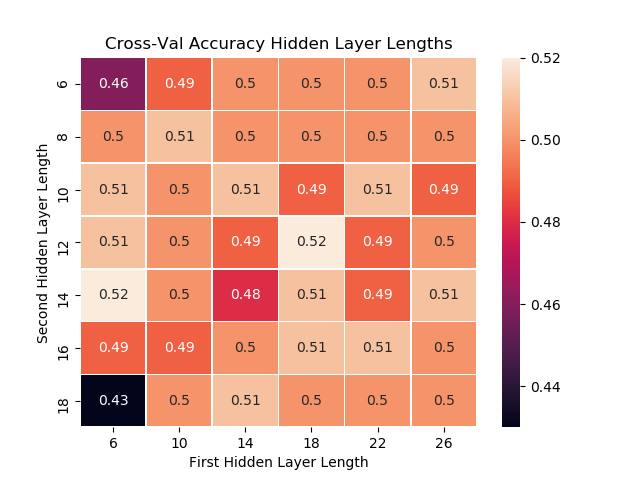
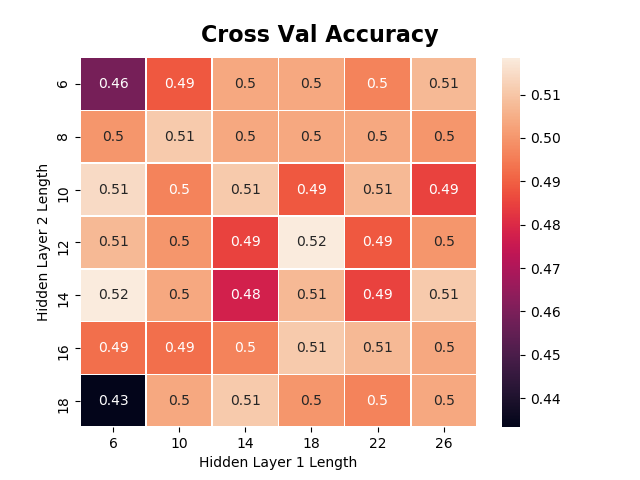
MLP Testing Figure Code Update

diff --git a/ml_model_build_deep_learning/MLP_sklearn.py b/ml_model_build_deep_learning/MLP_sklearn.py
@@ -19,7 +19,9 @@ sys.path.append(dirname(realpath(__file__)) + sep + pardir + sep)
 from ml_functions.data_processing import scale_df
 import pickle
 import numpy as np
+import pandas as pd
 import matplotlib.pyplot as plt
+import seaborn as sns
 from sklearn.neural_network import MLPClassifier
 from sklearn.model_selection import train_test_split, GridSearchCV
 from sklearn.model_selection import cross_val_score
@@ -59,7 +61,7 @@ print('\nMULTILAYER PERCEPTRON\n')
 x_train, x_test, y_train, y_test = train_test_split(x_10, y_10, test_size=0.2)
 
 #instantiate the MLP classifier, and fit to the data
-clf = MLPClassifier(hidden_layer_sizes=(18, 12), activation='logistic', random_state=0, max_iter=1000)
+clf = MLPClassifier(hidden_layer_sizes=(18, 12), activation='logistic', random_state=0, max_iter=2000)
 clf.fit(x_train, y_train)
 
 #printing the cross-validation accuracy score
@@ -88,13 +90,39 @@ grid_search_grad.fit(x_10, y_10)
 print('\n', 'Gradient Best Params: ' , grid_search_grad.best_params_)
 print('Gradient Best Score: ' , grid_search_grad.best_score_ , '\n')
 
-print(grid_search_grad.cv_results_['mean_test_score']
+print(grid_search_grad.cv_results_['mean_test_score'])
 
 
+#plotting the data
+
+#populating df with x, y, z data
+matrix_plot_data = pd.DataFrame({})
+matrix_plot_data['x'] = list(zip(*hidden_layer_test))[0]
+matrix_plot_data['y'] = list(zip(*hidden_layer_test))[1]
+matrix_plot_data['z'] = grid_search_grad.cv_results_['mean_test_score']
+
+#transforming z list into matrix format
+Z = matrix_plot_data.pivot_table(index='x', columns='y', values='z').T.values
+
+#getting x and y axis
+X_unique = np.sort(matrix_plot_data.x.unique())
+Y_unique = np.sort(matrix_plot_data.y.unique())
+
+#instantiating figure and plotting heatmap with seaborn
+fig, ax = plt.subplots()
+im = sns.heatmap(Z, annot=True,  linewidths=.5)
+
+#labelling x and y and title
+ax.set_xticklabels(X_unique)
+ax.set_yticklabels(Y_unique)
+ax.set(xlabel='Hidden Layer 1 Length',
+        ylabel='Hidden Layer 2 Length');
+fig.suptitle('Cross Val Accuracy', y=0.95, fontsize=16, fontweight='bold');
+
+#saving figure
+fig.savefig('figures/testing_hidden_layer_lengths.png')    
 
 
-
-    
 # ----------------------------------- END -------------------------------------
 
 print(' ----------------- END ----------------- ')
